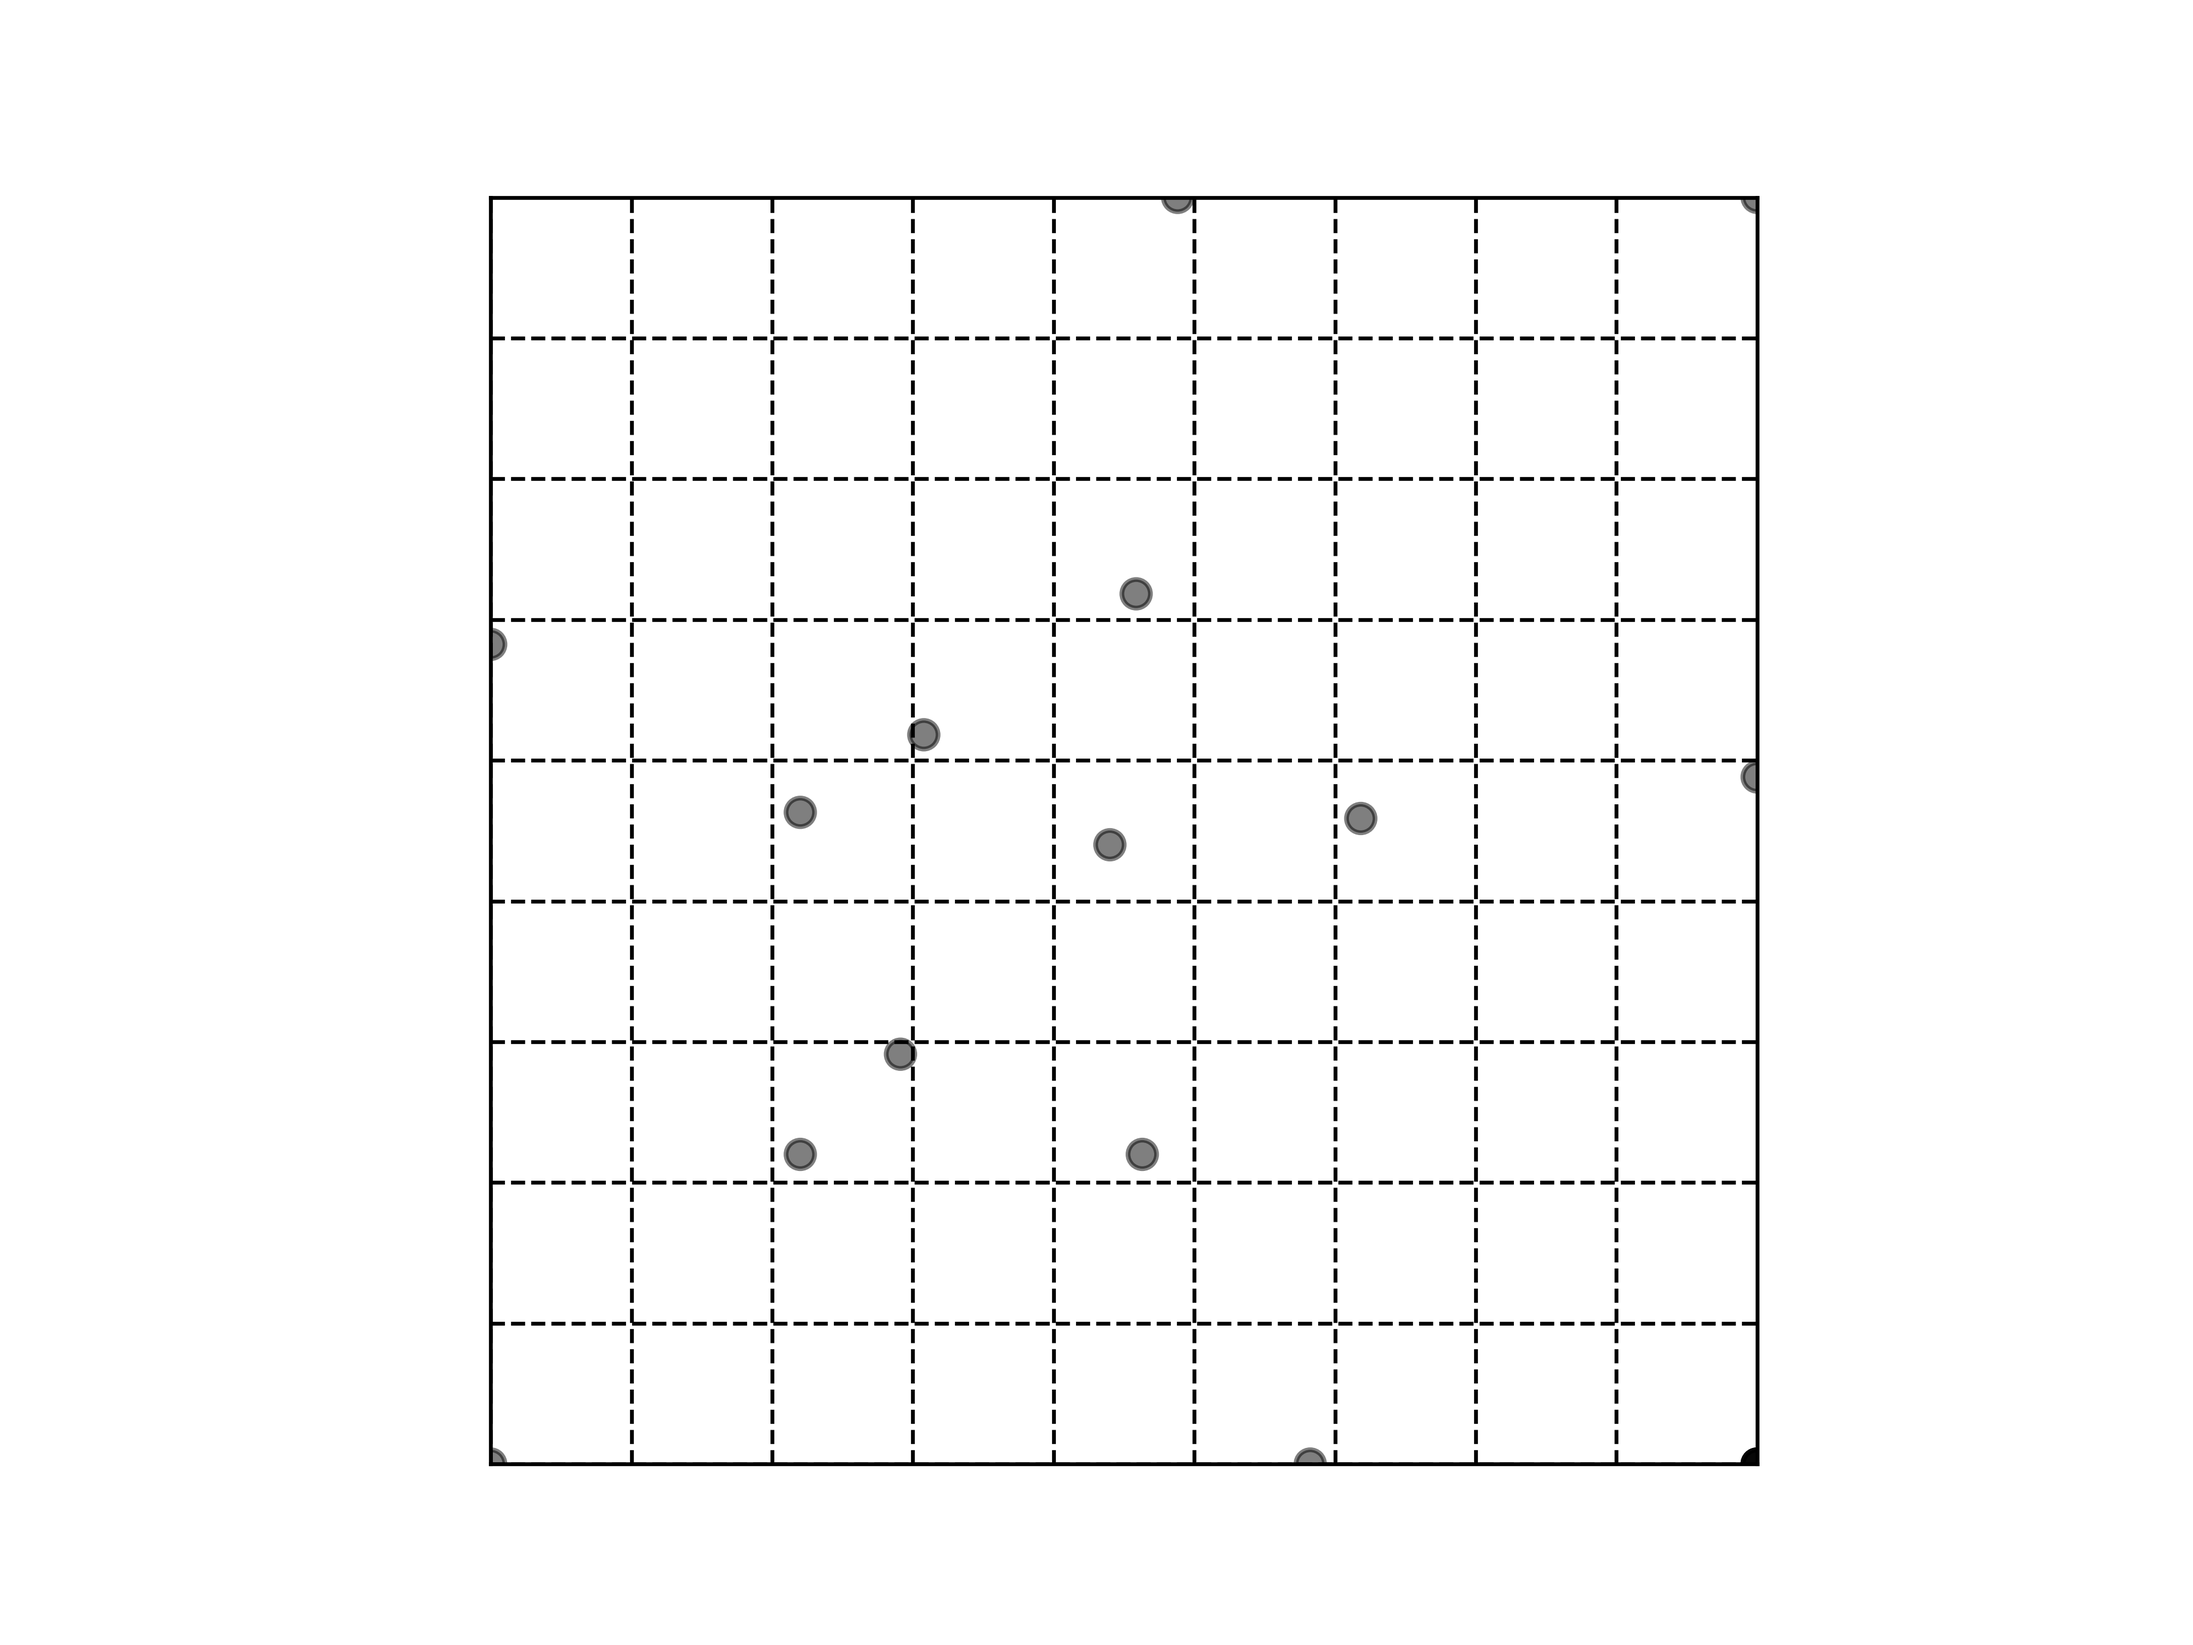
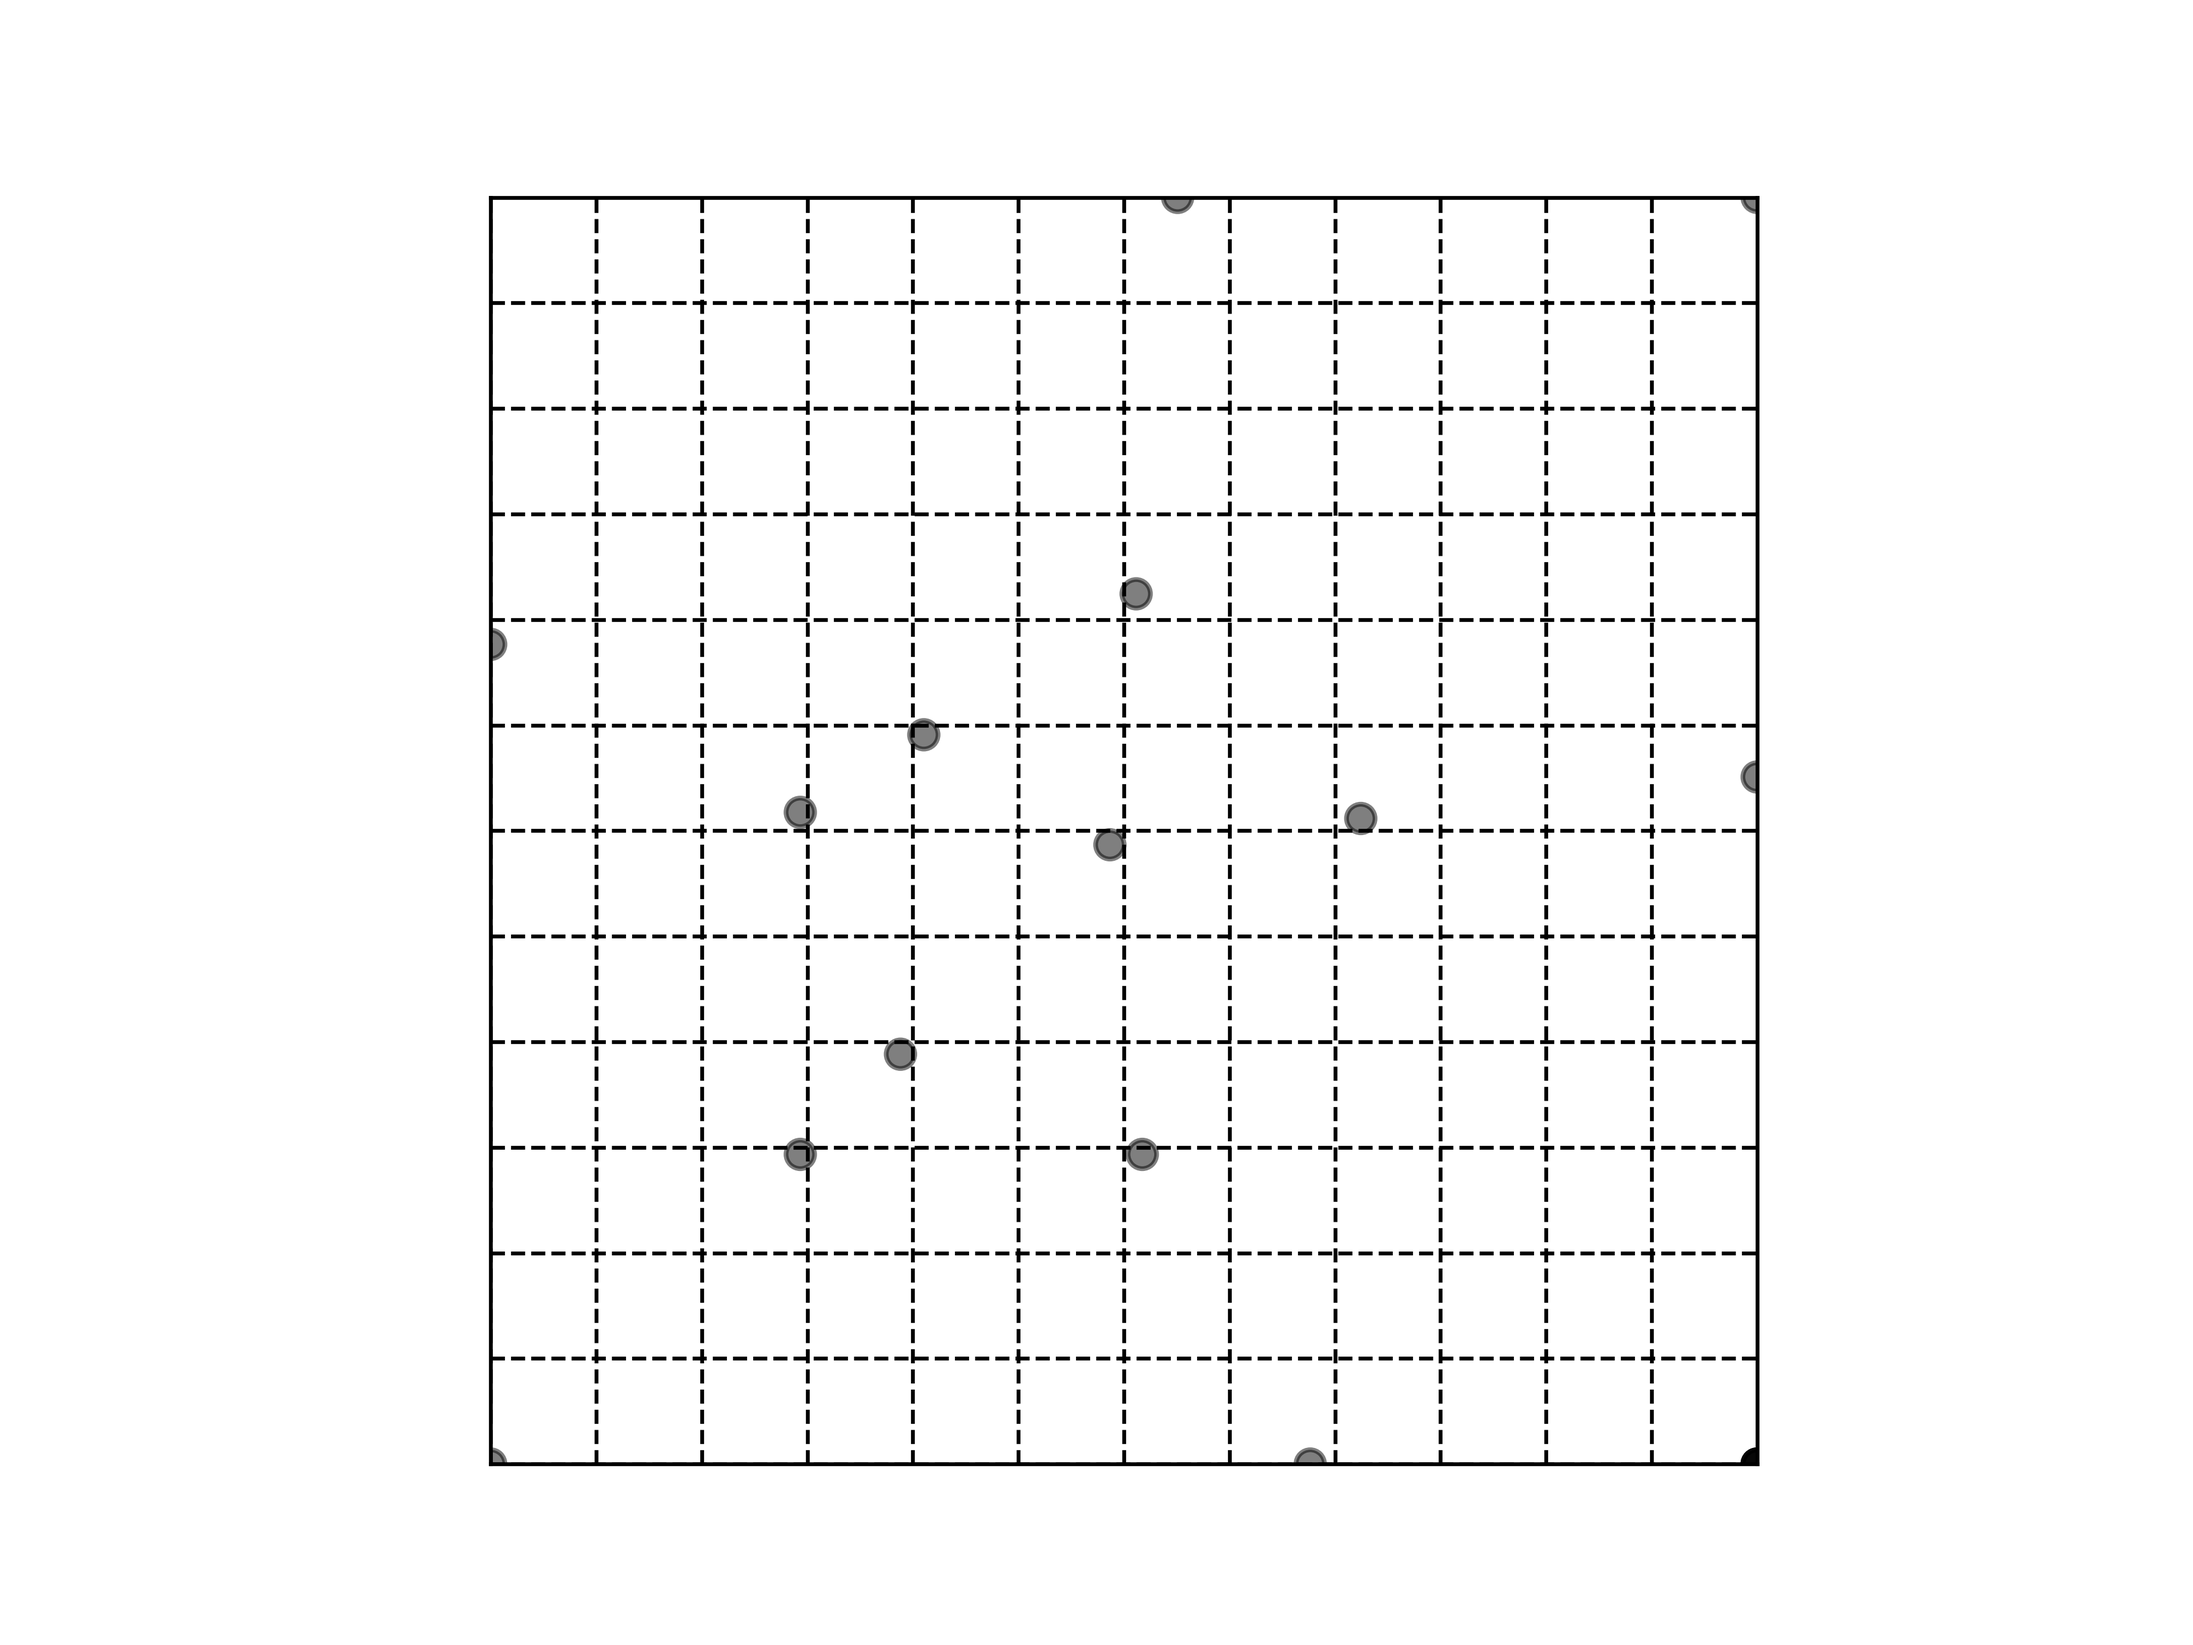
cleaned up and made it easier to run

diff --git a/visualize.py b/visualize.py
@@ -2,28 +2,22 @@ import matplotlib.pyplot as plt
 import numpy as np
 import sys
 
-grid = int(sys.argv[1])
+def plot(grid, pts, outf):
 
-with open("points.txt","r") as ifs:
-    a = ifs.read()
+    fig, ax = plt.subplots()
+    x = pts[:,0]
+    y = pts[:,1]
 
-fig, ax = plt.subplots()
-a = a.split("\n")
-x = [float(i.split()[0]) for i in a ]
-y = [float(i.split()[1]) for i in a ]
-
-print(x,y)
-
-colors = ['k']*len(x)
-ax.scatter(x, y, c=colors, alpha=0.5)
-ax.set_xlim((0,1))
-ax.set_ylim((0,1))
-x0,x1 = ax.get_xlim()
-y0,y1 = ax.get_ylim()
-ax.set_aspect(abs(x1-x0)/abs(y1-y0))
-plt.xticks(np.arange(0, 1, 1/grid))
-plt.yticks(np.arange(0, 1, 1/grid))
-ax.grid(b=True, which='major', color='k', linestyle='--')
-plt.tick_params(axis='both', which='both', bottom=False, top=False, labelbottom=False, right=False, left=False, labelleft=False)
-fig.savefig('test.png', dpi=600)
-plt.close(fig)
+    colors = ['k']*len(x)
+    ax.scatter(x, y, c=colors, alpha=0.5)
+    ax.set_xlim((0,1))
+    ax.set_ylim((0,1))
+    x0,x1 = ax.get_xlim()
+    y0,y1 = ax.get_ylim()
+    ax.set_aspect(abs(x1-x0)/abs(y1-y0))
+    plt.xticks(np.arange(0, 1, 1/grid))
+    plt.yticks(np.arange(0, 1, 1/grid))
+    ax.grid(b=True, which='major', color='k', linestyle='--')
+    plt.tick_params(axis='both', which='both', bottom=False, top=False, labelbottom=False, right=False, left=False, labelleft=False)
+    fig.savefig(outf, dpi=600)
+    plt.close(fig)

diff --git a/grid_approx.py b/grid_approx.py
@@ -1,0 +1,39 @@
+import numpy as np
+from math import floor
+from sys import argv, exit
+
+regularization_param = 0.01
+
+def get_grid(x, grid):
+	return floor(grid*x)
+
+
+def cost(grid, pt):
+	global regularization_param
+	sum_sq_error = 0
+	for i in range(len(pt)):
+		before_x = get_grid(pt[i][0], grid)
+		before_y = get_grid(pt[i][1], grid)
+		after_x = before_x + 1
+		after_y = before_y + 1
+		min_dist = np.linalg.norm(pt[i] - np.array([before_x/grid, before_y/grid]))
+		min_dist = min(min_dist, np.linalg.norm(pt[i] - np.array([after_x/grid, before_y/grid])))
+		min_dist = min(min_dist, np.linalg.norm(pt[i] - np.array([after_x/grid, after_y/grid])))
+		min_dist = min(min_dist, np.linalg.norm(pt[i] - np.array([before_x/grid, after_y/grid])))
+		sum_sq_error += min_dist
+
+	return sum_sq_error + regularization_param * grid
+
+
+def search(pt):
+	mincost = 1e9
+	arg_min = 0
+	for grid in range(2,257):
+		ncost = cost(grid,pt)
+		if ncost < mincost:
+			mincost = ncost
+			arg_min = grid
+
+	return arg_min,mincost
+
+

diff --git a/points_from_tmd.py b/points_from_tmd.py
@@ -1,25 +1,17 @@
-import sys
+import numpy as np
+def extract(input_file):
+	with open(input_file,'r') as ifs:
+		a = ifs.read()
 
-if len(sys.argv) < 3:
-	print("Specify tmd5 file and output file")
-	sys.exit()
+	b = a.split("\n\n")
 
-
-with open(sys.argv[1],'r') as ifs:
-	a = ifs.read()
-
-b = a.split("\n\n")
-
-pts = []
-for i in range(1,len(b)):
-	c = b[i].split("\n")
-	pts.append((c[0],c[1]))
+	pts = []
+	for i in range(1,len(b)):
+		c = b[i].split("\n")
+		pts.append([float(c[0]),float(c[1])])
 
 
-c = b[0].split("\n")
-pts.append((c[2],c[3]))
+	c = b[0].split("\n")
+	pts.append([float(c[2]),float(c[3])])
 
-with open(sys.argv[2],"w") as ofs:
-	for c in pts:
-		ofs.write("{} {}\n".format(c[0],c[1]))
-
+	return np.array(pts)

diff --git a/main.py b/main.py
@@ -1,0 +1,21 @@
+from grid_approx import search
+from points_from_tmd import extract
+from visualize import plot
+from sys import argv,exit
+
+def main():
+	if(len(argv) < 2):
+		print("Provide input tmd5")
+		exit(1)
+
+	inf = argv[1]
+	outf = "test.png"
+
+	pts = extract(inf)
+	grid, error = search(pts)
+	print("Use a {} grid. Cost: {}".format(grid,error))
+
+	plot(grid, pts, outf)
+
+if __name__ == "__main__":
+	main()

diff --git a/README.md b/README.md
@@ -4,13 +4,7 @@ Given a Treemaker tmd5 file approximates a grid. Work in progress.
 
 To run:
 ```
-# Extract points from the tmd5 file
-python points_from_tmd.py <filename>.tmd5 <outfilename>.txt
-# Compile and run the approximator
-g++ grid_approx.cpp -o approx 
-./approx <outfilename>.txt # This will print out a grid size
-# visualize the point with the output grid
-python visualize <grid size> # Output is stored as an image file "test.png"
+python main.py <tmd5 file> [<output filename>.png]
 ```
 ![Sample](test.png)
 
